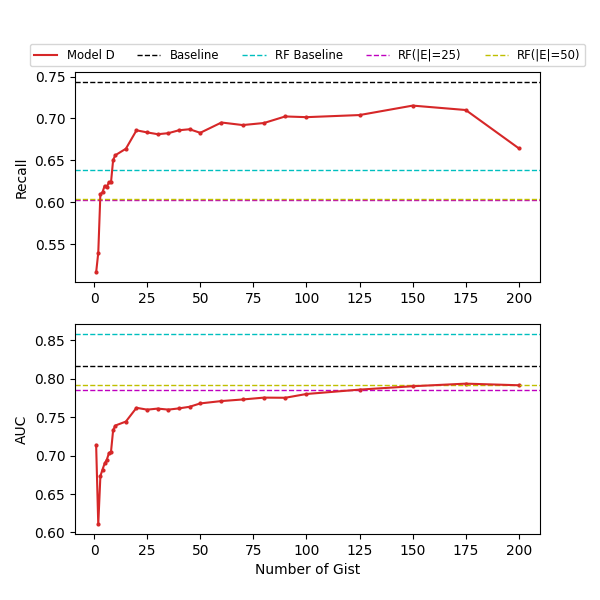
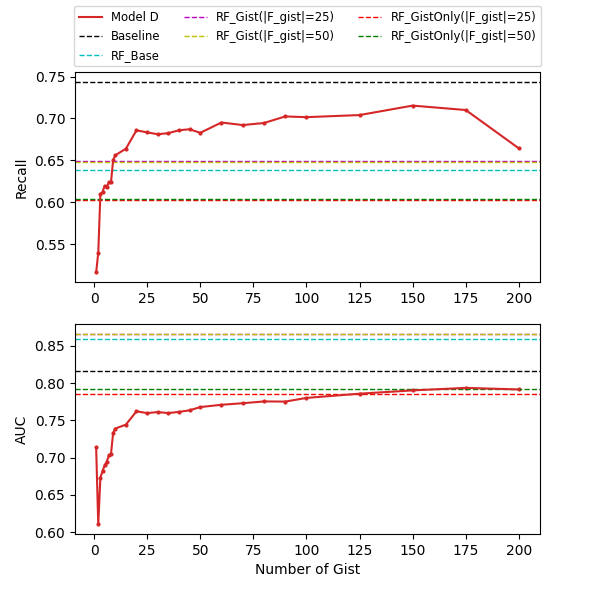
New plots

diff --git a/plots.py b/plots.py
@@ -35,7 +35,7 @@ model_results = {
     'RandomForest_Baseline':{
         'recall': 0.6391,
         'auc': 0.85874,
-        'name': 'RF Baseline'
+        'name': 'RF_Base'
     },
     'RandomForest_with_25_gist_sqrt':{
         'recall': 0.63266,
@@ -47,11 +47,13 @@ model_results = {
     },
     'RandomForest_with_25_gist_075':{
         'recall': 0.6496,
-        'auc': 0.86644
+        'auc': 0.86644,
+        'name': 'RF_Gist(|F_gist|=25)'
     },
     'RandomForest_with_50_gist_075':{
         'recall': 0.64786,
-        'auc': 0.86616
+        'auc': 0.86616,
+        'name': 'RF_Gist(|F_gist|=50)'
     },
     'RandomForest_with_25_gist_only_sqrt':{
         'recall': 0.59934,
@@ -64,12 +66,12 @@ model_results = {
     'RandomForest_with_25_gist_only_075':{
         'recall': 0.60242,
         'auc': 0.78484,
-        'name': 'RF(|E|=25)'
+        'name': 'RF_GistOnly(|F_gist|=25)'
     },
     'RandomForest_with_50_gist_only_075':{
         'recall': 0.60398,
         'auc': 0.79228,
-        'name': 'RF(|E|=50)'
+        'name': 'RF_GistOnly(|F_gist|=50)'
     }
 }
 
@@ -138,7 +140,7 @@ def plot_model(model, lines=['GNN_Baseline'], title=f'Recall and AUC', save=Fals
     axes[1].set_ylabel('AUC')
     # axes[0].text(max(x), min(recall), 'Recall', c="black", ha="right", va="bottom")
     # axes[1].text(max(x), min(auc), 'AUC', c="black", ha="right", va="bottom")
-    axes[0].legend(handles=[plot, *handles], fontsize='small', loc='lower center', bbox_to_anchor=(0.5, 1.0), ncol=1 + len(lines) if len(lines) > 1 else 1)
+    axes[0].legend(handles=[plot, *handles], fontsize='small', loc='lower center', bbox_to_anchor=(0.5, 1.0), ncol=min((1 + len(lines) if len(lines) > 1 else 1), 3))
 
 
     if save: plt.savefig(f"graph/fig_{title}")
@@ -250,9 +252,9 @@ def plot_gist_stats(num_of_gist_to_plot=3, title=f'Gist_Stats_{DATASET}', plot_a
 
 plot_gist_stats(3, save=True)
 
-for model in model_results_vs_gist.keys():
-    plot_model(model, save=True)
+# for model in model_results_vs_gist.keys():
+#     plot_model(model, save=True)
 plot_models(save=True)
 plot_models(['A', 'B1', 'C'], save=True, colors=COLORS[0:3])
-plot_model('D', lines=['GNN_Baseline', 'RandomForest_Baseline', 'RandomForest_with_25_gist_only_075', 'RandomForest_with_50_gist_only_075'], save=True)
+plot_model('D', lines=['GNN_Baseline', 'RandomForest_Baseline', 'RandomForest_with_25_gist_075', 'RandomForest_with_50_gist_075', 'RandomForest_with_25_gist_only_075', 'RandomForest_with_50_gist_only_075'], save=True)
 plot_models([model for model in model_results_vs_gist.keys() if model.startswith('B')], save=True, limit_x=True, colors=[COLORS[1], *COLORS[3:5]])
